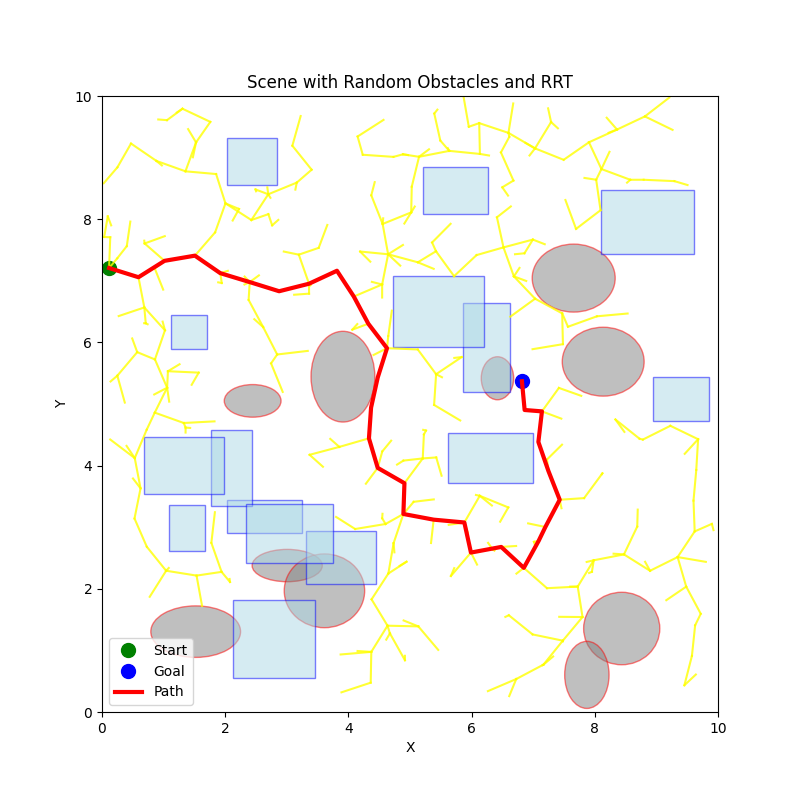
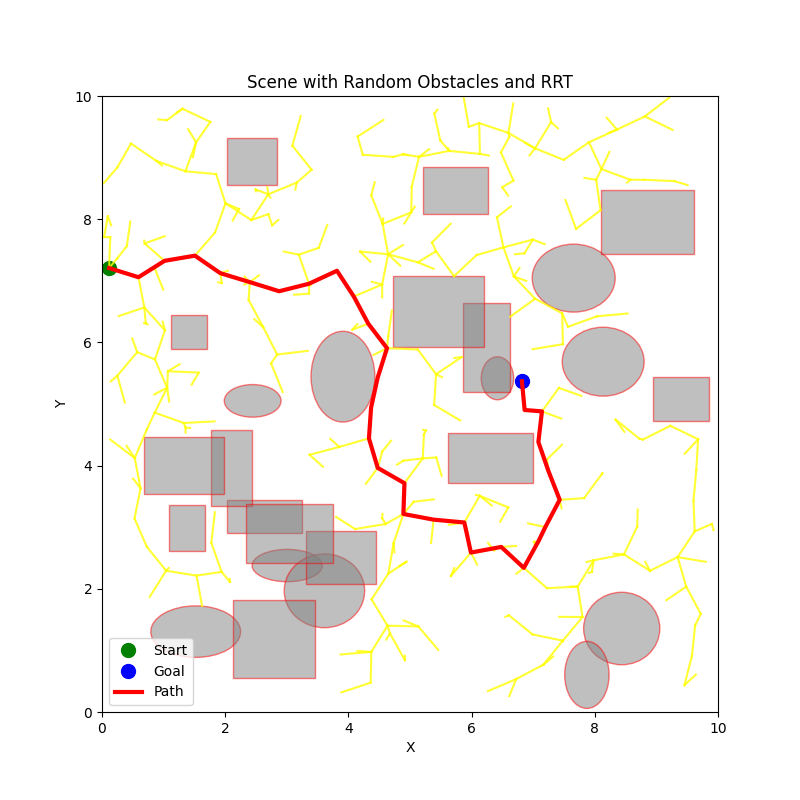
revise plot

diff --git a/main.py b/main.py
@@ -111,7 +111,7 @@ class Scene:
             elif obs[0] == "rectangle":
                 _, center, width, height = obs
                 rect = Rectangle((center[0]-width/2, center[1]-height/2), width, height,
-                                edgecolor='b', facecolor='lightblue', alpha=0.5)
+                                edgecolor='r', facecolor='gray', alpha=0.5)
                 ax.add_patch(rect)
         # Plot start and goal points
         ax.plot(self.start[0], self.start[1], 'go', markersize=10, label='Start')
@@ -166,7 +166,7 @@ if __name__ == "__main__":
     else:
         print("No path was found.")
     
-    ax = scene.plot_scene(tree=tree, path=path, save_image=False)
+    ax = scene.plot_scene(tree=tree, path=path, save_image=True)
     plt.show()
     
     # Smooth the path
@@ -174,11 +174,11 @@ if __name__ == "__main__":
     smoother = Smoother(path=path, vmax=vmax, amax=amax, collision_checker=scene.collision_checker, obstacles=scene.obstacles)
     
     start_time = time.time()
-    smoother.smooth_path(plot_traj=False, save_gif=False)
+    smoother.smooth_path(plot_traj=True, save_gif=True)
     end_time = time.time()
     print(f"Smoothing time: {end_time - start_time}")
     plt.close()
 
     smoothed_path = smoother.interpolate_control_trajectory()
-    ax = scene.plot_scene(tree=tree, smoothed_path=smoothed_path, save_image=False, image_path='rrt_smoothed')
+    ax = scene.plot_scene(tree=tree, smoothed_path=smoothed_path, save_image=True, image_path='rrt_smoothed')
     plt.show()

diff --git a/smoother.py b/smoother.py
@@ -338,7 +338,7 @@ class Smoother:
                     elif obs[0] == "rectangle":
                         _, center, width, height = obs
                         self._ax.add_patch(Rectangle((center[0]-width/2, center[1]-height/2), width, height,
-                                                    edgecolor='b', facecolor='lightblue', alpha=0.5, 
+                                                    edgecolor='r', facecolor='gray', alpha=0.5,
                                                     label="Obstacle" if not self._obstacle_label_added else ""))
                     self._obstacle_label_added = True
 
